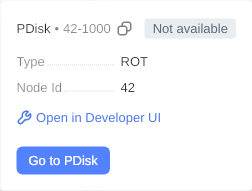
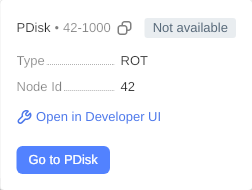
e2e: add test cases for updated stack

diff --git a/tests/suites/storage/vdiskPage.test.ts b/tests/suites/storage/vdiskPage.test.ts
@@ -147,6 +147,74 @@ test.describe('VDisk page storage tab', () => {
         await expect(inactiveDisks).toHaveCount(2);
     });
 
+    test('expands vDisk stack on hover', async ({page}) => {
+        await setupVDiskPageMocks(page, {withDonors: true});
+        await page.goto(VDISK_PAGE_PATH);
+
+        const storageTable = new ClusterStorageTable(page);
+        await storageTable.waitForTableToLoad();
+        await storageTable.waitForTableData();
+
+        const row = page.locator('.ydb-paginated-table__row').first();
+        const stack = row.locator('.ydb-stack').first();
+        const items = stack.locator('.ydb-stack__item');
+        const background = stack.locator('.ydb-stack__background');
+
+        await expect(stack).toBeVisible();
+        await expect(items).toHaveCount(3);
+        await expect(items.nth(0)).toBeVisible();
+        await expect(items.nth(1)).not.toBeVisible();
+        await expect(items.nth(2)).toBeVisible();
+        await expect(background).not.toBeVisible();
+
+        await items.nth(0).hover();
+
+        await expect(background).toBeVisible();
+        await expect(items.nth(2)).toBeVisible();
+        await expect(row).toHaveCSS('z-index', '2');
+
+        await page.mouse.move(0, 0);
+        await expect(background).not.toBeVisible();
+
+        const visibleDonorBox = await items
+            .nth(2)
+            .locator('.storage-disk-progress-bar')
+            .boundingBox();
+        expect(visibleDonorBox).not.toBeNull();
+        await page.mouse.move(
+            visibleDonorBox!.x + visibleDonorBox!.width - 1,
+            visibleDonorBox!.y + visibleDonorBox!.height - 1,
+        );
+
+        await expect(background).toBeVisible();
+        await expect(items.nth(2)).toBeVisible();
+    });
+
+    test('renders expanded vDisk stack snapshot', async ({page}) => {
+        await page.setViewportSize({width: 1500, height: 1000});
+        await setupVDiskPageMocks(page, {withDonors: true});
+        await page.goto(VDISK_PAGE_PATH);
+
+        const storageTable = new ClusterStorageTable(page);
+        await storageTable.waitForTableToLoad();
+        await storageTable.waitForTableData();
+
+        const row = page.locator('.ydb-paginated-table__row').first();
+        const stack = row.locator('.ydb-stack').first();
+
+        await expect(stack).toBeVisible();
+        await stack.hover();
+        const background = stack.locator('.ydb-stack__background').first();
+        await expect(background).toBeVisible();
+
+        await expect(background).toHaveCSS('height', '80px');
+
+        const backgroundBox = await background.boundingBox();
+        expect(backgroundBox).not.toBeNull();
+
+        await expect(page).toHaveScreenshot('vdisk-stack-expanded.png', {clip: backgroundBox!});
+    });
+
     test('Go to PDisk navigates to PDisk page', async ({page}) => {
         await setupVDiskPageMocks(page);
         await setupPDiskInfoMock(page);

diff --git a/tests/suites/storage/vdiskPageMocks.ts b/tests/suites/storage/vdiskPageMocks.ts
@@ -3,6 +3,8 @@ import type {Page} from '@playwright/test';
 export const VDISK_ID = '2181038080-1-0-0-0';
 export const SIBLING_VDISK_ID = '2181038080-1-0-0-1';
 export const ANOTHER_PDISK_VDISK_ID = '2181038080-1-0-0-2';
+export const DONOR_VDISK_ID = '2181038080-1-0-1-0';
+export const SECOND_DONOR_VDISK_ID = '2181038080-1-0-1-1';
 export const NODE_ID = '42';
 export const PDISK_ID = '1000';
 export const SECOND_PDISK_ID = '1001';
@@ -20,11 +22,13 @@ export interface SetupVDiskPageMocksOptions {
     rack?: string;
     host?: string;
     pDiskId?: string;
+    withDonors?: boolean;
 }
 
 function createStorageGroupsResponse({
     pDiskId = PDISK_ID,
-}: Pick<SetupVDiskPageMocksOptions, 'pDiskId'> = {}) {
+    withDonors,
+}: Pick<SetupVDiskPageMocksOptions, 'pDiskId' | 'withDonors'> = {}) {
     return {
         StorageGroups: [
             {
@@ -46,6 +50,7 @@ function createStorageGroupsResponse({
                         StoragePoolName: STORAGE_POOL_NAME,
                         DiskSpace: 'Green',
                         FrontQueues: 'Green',
+                        ...(withDonors ? {VDiskState: 'OK', Replicated: false} : {}),
                         SatisfactionRank: {
                             FreshRank: {
                                 Flag: 'Green',
@@ -58,6 +63,34 @@ function createStorageGroupsResponse({
                             PDiskId: `${NODE_ID}-${pDiskId}`,
                             Type: 'ROT',
                         },
+                        Donors: withDonors
+                            ? [
+                                  {
+                                      VDiskId: DONOR_VDISK_ID,
+                                      NodeId: Number(NODE_ID),
+                                      VDiskSlotId: 1011,
+                                      AllocatedSize: '1000000000',
+                                      AvailableSize: '195000000000',
+                                      StoragePoolName: STORAGE_POOL_NAME,
+                                      DiskSpace: 'Green',
+                                      FrontQueues: 'Green',
+                                      VDiskState: 'OK',
+                                      Replicated: false,
+                                  },
+                                  {
+                                      VDiskId: SECOND_DONOR_VDISK_ID,
+                                      NodeId: Number(NODE_ID),
+                                      VDiskSlotId: 1012,
+                                      AllocatedSize: '2000000000',
+                                      AvailableSize: '194000000000',
+                                      StoragePoolName: STORAGE_POOL_NAME,
+                                      DiskSpace: 'Green',
+                                      FrontQueues: 'Green',
+                                      VDiskState: 'OK',
+                                      Replicated: false,
+                                  },
+                              ]
+                            : undefined,
                     },
                     {
                         VDiskId: SIBLING_VDISK_ID,
@@ -171,13 +204,16 @@ async function setupNodeInfoMock(
 
 async function setupStorageGroupsMock(
     page: Page,
-    {pDiskId = PDISK_ID}: Pick<SetupVDiskPageMocksOptions, 'pDiskId'> = {},
+    {
+        pDiskId = PDISK_ID,
+        withDonors,
+    }: Pick<SetupVDiskPageMocksOptions, 'pDiskId' | 'withDonors'> = {},
 ) {
     await page.route('**/storage/groups?*', async (route) => {
         await route.fulfill({
             status: 200,
             contentType: 'application/json',
-            body: JSON.stringify(createStorageGroupsResponse({pDiskId})),
+            body: JSON.stringify(createStorageGroupsResponse({pDiskId, withDonors})),
         });
     });
 }